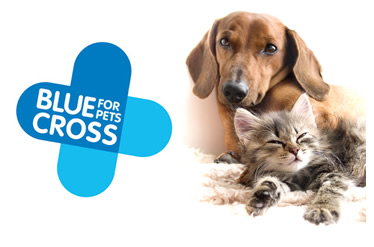
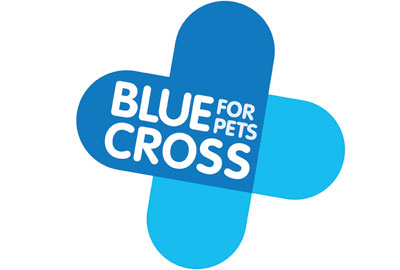
refreshed bluecross image
image showed a bit stretchy and small, changed it with just the plain logo and amended the extension on html from png to jpg

diff --git a/index.html b/index.html
@@ -73,8 +73,8 @@ https://nridyushmi.github.io/allaboutcats/index.html --->
    <table>
     <tr>
        <th><img src="rspca.png" alt="RSPCA" border=3 height=100 width=200></th>
-       <th><img src="dogstrust.png" alt="Dogs Trust" border=3 height=100 width=200></th>
-       <th><img src="bluecross.jpg" alt="Blue Cross" border=3 height=100 width=200></th>
+       <th><img src="dogstrust.jpg" alt="Dogs Trust" border=3 height=100 width=200></th>
+       <th><img src="bluecross.jpg" alt="Blue Cross" border=3 height=120 width=200></th>
      </tr>
     <tr>
        <td>The UK's leading charity. They specialise in animal rescue & furthering the welfare cause for all animals.</td>
